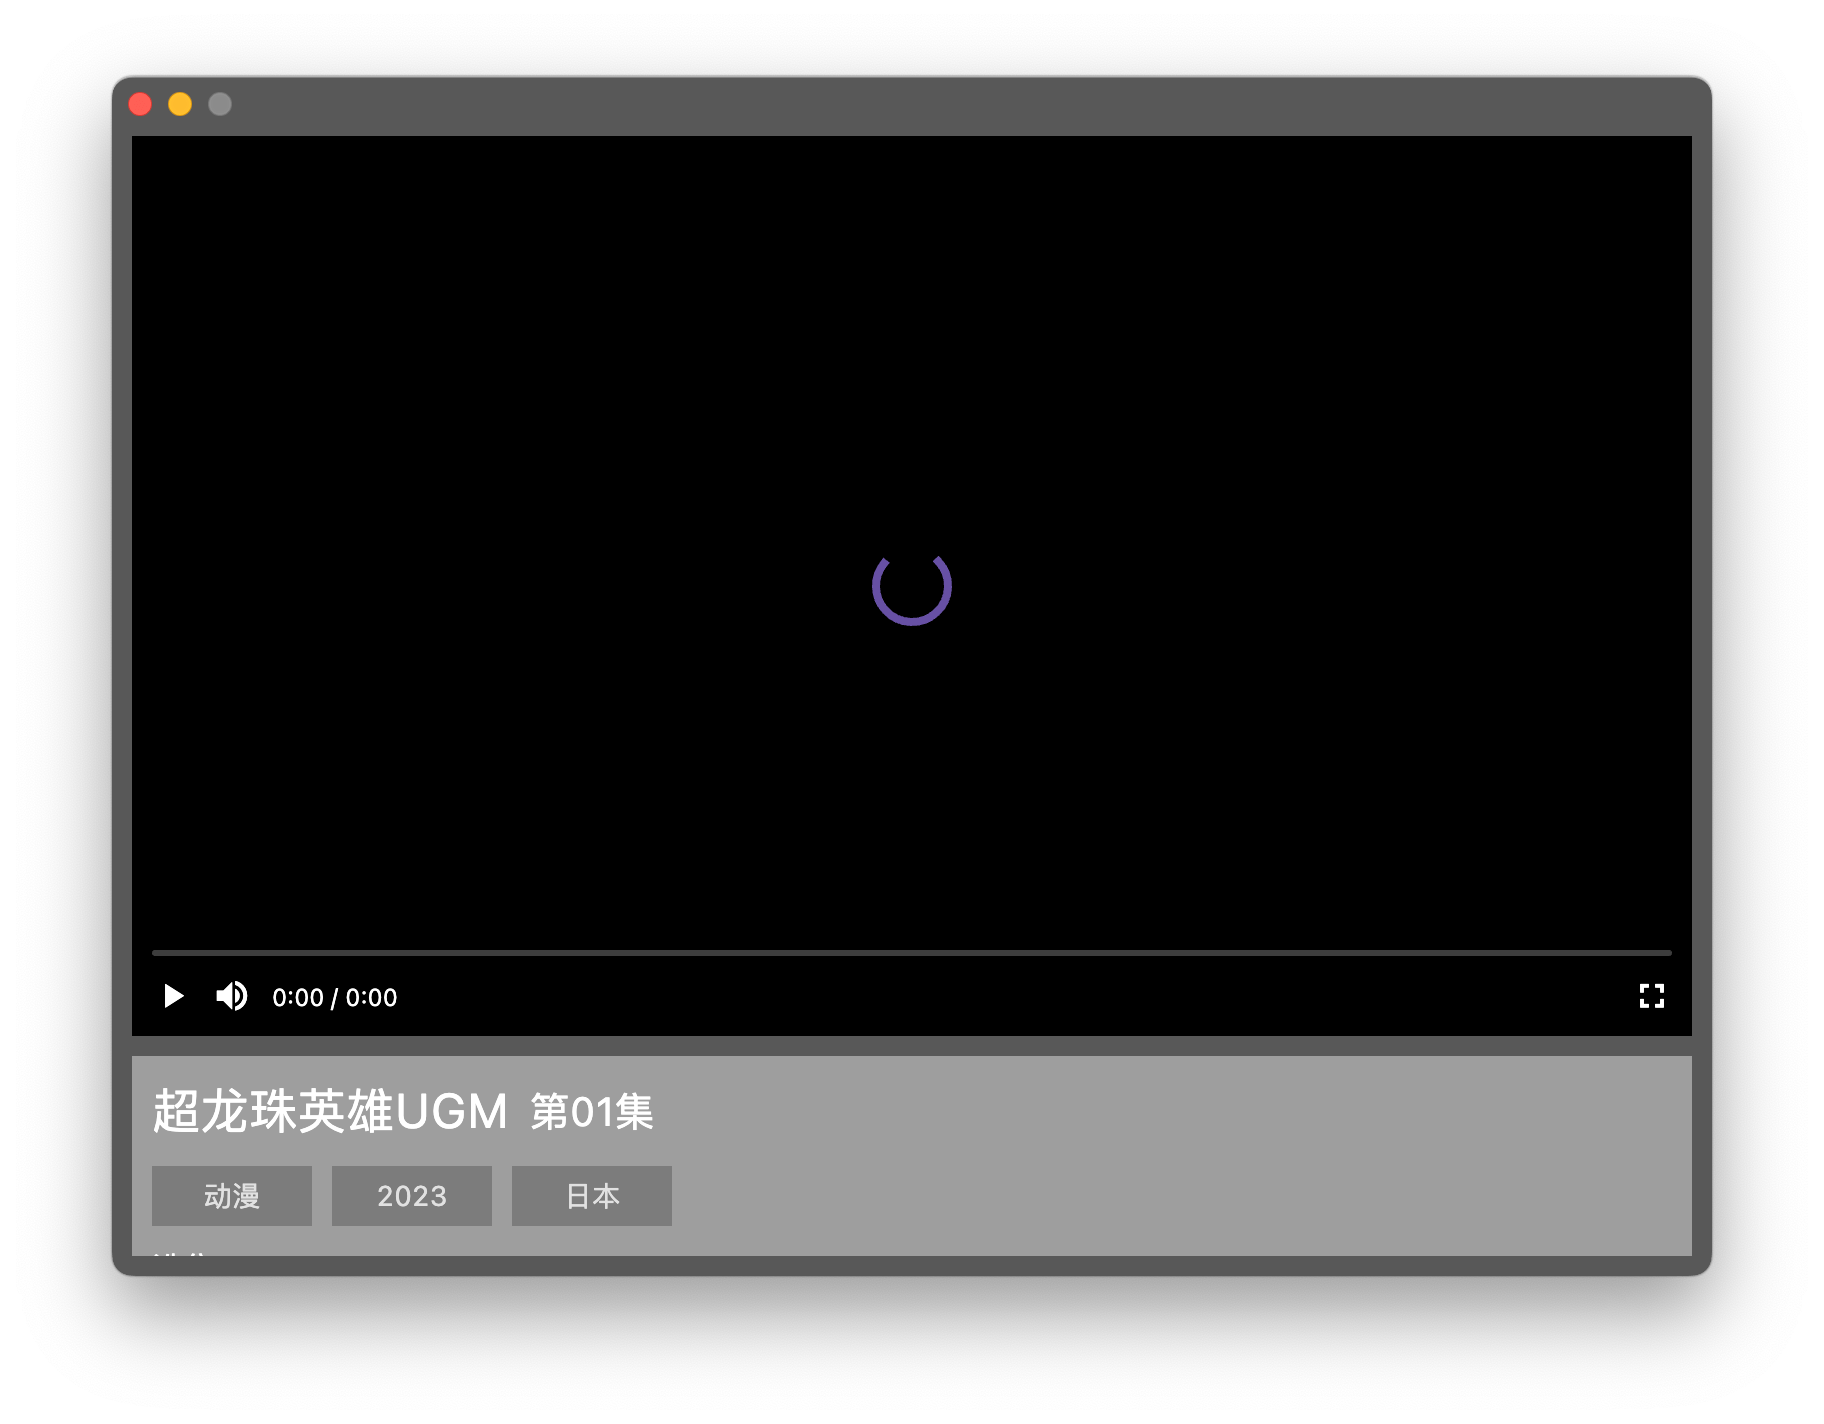
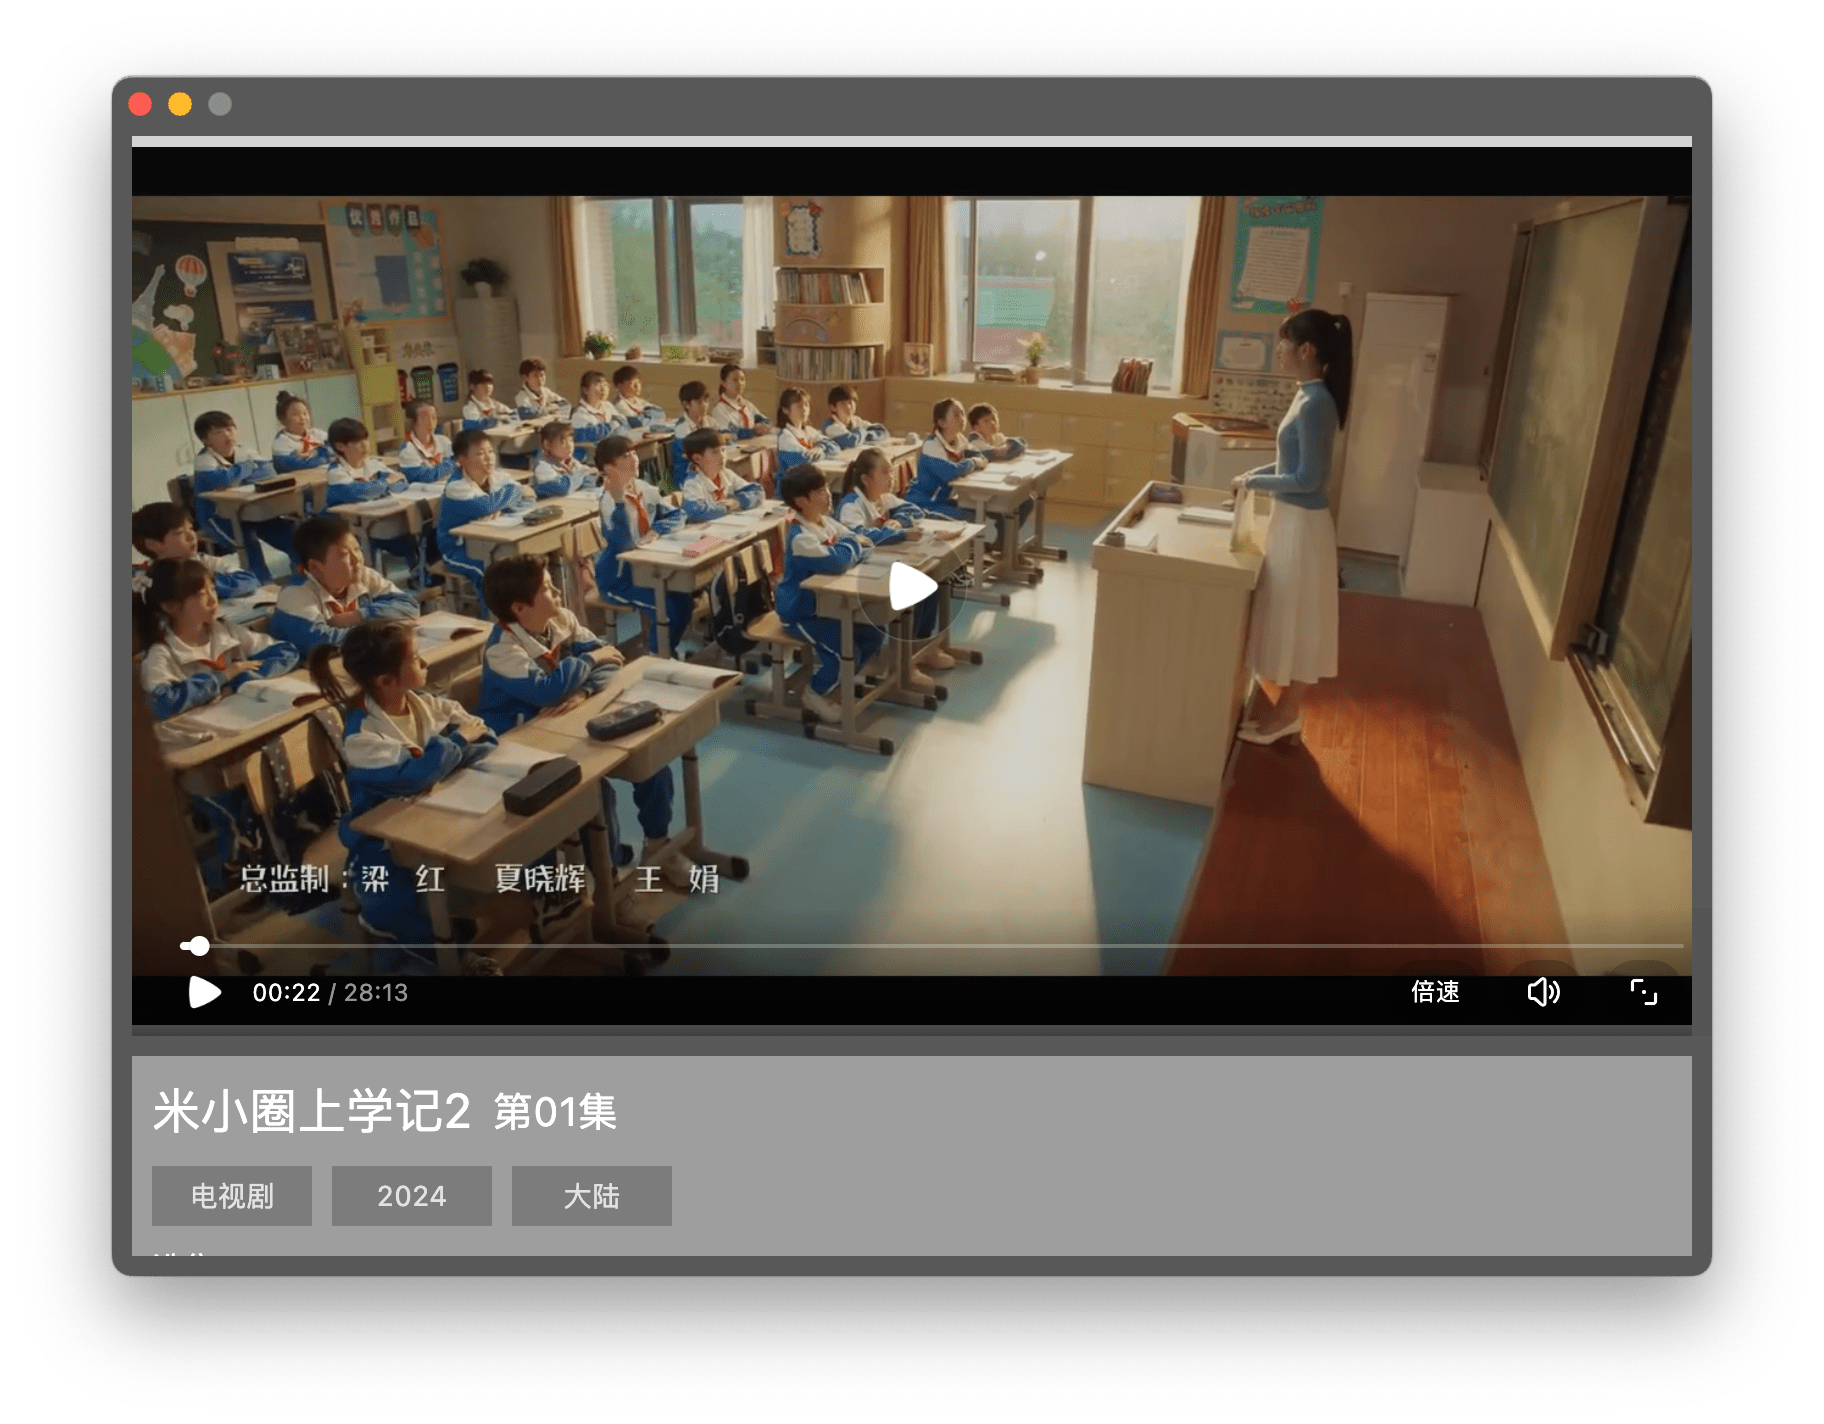
update: 支持视频播放

diff --git a/lib/screens/detail/widgets/video.dart b/lib/screens/detail/widgets/video.dart
@@ -1,34 +1,30 @@
-import 'package:flick_video_player/flick_video_player.dart';
 import 'package:flutter/material.dart';
-import 'package:video_player/video_player.dart';
+import 'package:flutter_tv/service/video.dart';
+import 'package:qyplayer/qyplayer.dart';
 
 class VideoPlay extends StatefulWidget {
-  const VideoPlay({super.key});
+  final String id;
+  const VideoPlay({super.key, required this.id});
 
   @override
   State<VideoPlay> createState() => _VideoPlayState();
 }
 
 class _VideoPlayState extends State<VideoPlay> {
-  late FlickManager flickManager;
+  GlobalKey<QYPlayerState> playerKey = GlobalKey<QYPlayerState>();
+  QYPlayerController? controller;
+  String url = "";
 
   @override
   void initState() {
     super.initState();
-    flickManager = FlickManager(
-      autoInitialize: false,
-      autoPlay: false,
-      videoPlayerController: VideoPlayerController.networkUrl(
-        Uri.parse(
-            'https://github.com/GeekyAnts/flick-video-player-demo-videos/blob/master/example/rio_from_above_compressed.mp4?raw=true'),
-      ),
+    fetchVideo(widget.id).then(
+      (data) => {
+        setState(() {
+          url = data;
+        }),
+      },
     );
-  }
-
-  @override
-  void dispose() {
-    flickManager.dispose();
-    super.dispose();
   }
 
   @override
@@ -37,7 +33,26 @@ class _VideoPlayState extends State<VideoPlay> {
       width: MediaQuery.of(context).size.width,
       height: 450,
       color: Colors.grey,
-      child: FlickVideoPlayer(flickManager: flickManager),
+      child: Column(
+        children: [
+          if (url.isNotEmpty)
+            QYPlayer(
+              key: playerKey,
+              controller: QYPlayerController(
+                src:
+                    url, //"https://vip.ffzyread.com/20231221/21285_2c84cb67/index.m3u8",
+                width: MediaQuery.of(context).size.width,
+                height: 450,
+                poster: '',
+                isLive: false,
+                initTime: const Duration(seconds: 12),
+                autoplay: false,
+                useSafeArea: true,
+                bgColor: Colors.white,
+              ),
+            ),
+        ],
+      ),
     );
   }
 }

diff --git a/macos/Flutter/GeneratedPluginRegistrant.swift b/macos/Flutter/GeneratedPluginRegistrant.swift
@@ -9,7 +9,6 @@ import path_provider_foundation
 import screen_retriever
 import sqflite
 import video_player_avfoundation
-import wakelock_macos
 import window_manager
 
 func RegisterGeneratedPlugins(registry: FlutterPluginRegistry) {
@@ -17,6 +16,5 @@ func RegisterGeneratedPlugins(registry: FlutterPluginRegistry) {
   ScreenRetrieverPlugin.register(with: registry.registrar(forPlugin: "ScreenRetrieverPlugin"))
   SqflitePlugin.register(with: registry.registrar(forPlugin: "SqflitePlugin"))
   FVPVideoPlayerPlugin.register(with: registry.registrar(forPlugin: "FVPVideoPlayerPlugin"))
-  WakelockMacosPlugin.register(with: registry.registrar(forPlugin: "WakelockMacosPlugin"))
   WindowManagerPlugin.register(with: registry.registrar(forPlugin: "WindowManagerPlugin"))
 }

diff --git a/lib/service/video.dart b/lib/service/video.dart
@@ -1,0 +1,22 @@
+import 'dart:developer' as developer;
+
+import 'package:flutter_tv/server/base.dart';
+import 'package:html/parser.dart';
+
+Future fetchVideo(String id) async {
+  RegExp regex = RegExp((r'"url":"[^\s]+'));
+  String str = "";
+  try {
+    var response = await httpApi.getString("vodplay/$id.html");
+    var document = parse(response);
+    var content = document.body!.text.trim();
+    var url = regex.stringMatch(content)!.split(',')[0];
+
+    str = url.substring(7, url.length - 1).replaceAll(RegExp("\\\\"), "");
+    return str;
+  } catch (e) {
+    developer.log('$e', name: '获取影片错误');
+  }
+
+  return str;
+}

diff --git a/lib/screens/detail/widgets/body.dart b/lib/screens/detail/widgets/body.dart
@@ -34,7 +34,7 @@ class _BodyState extends State<Body> {
           crossAxisAlignment: CrossAxisAlignment.start,
           mainAxisAlignment: MainAxisAlignment.start,
           children: [
-            const VideoPlay(),
+            VideoPlay(id: id),
             Episodes(id: id),
             Testimonials(id: id),
           ],
